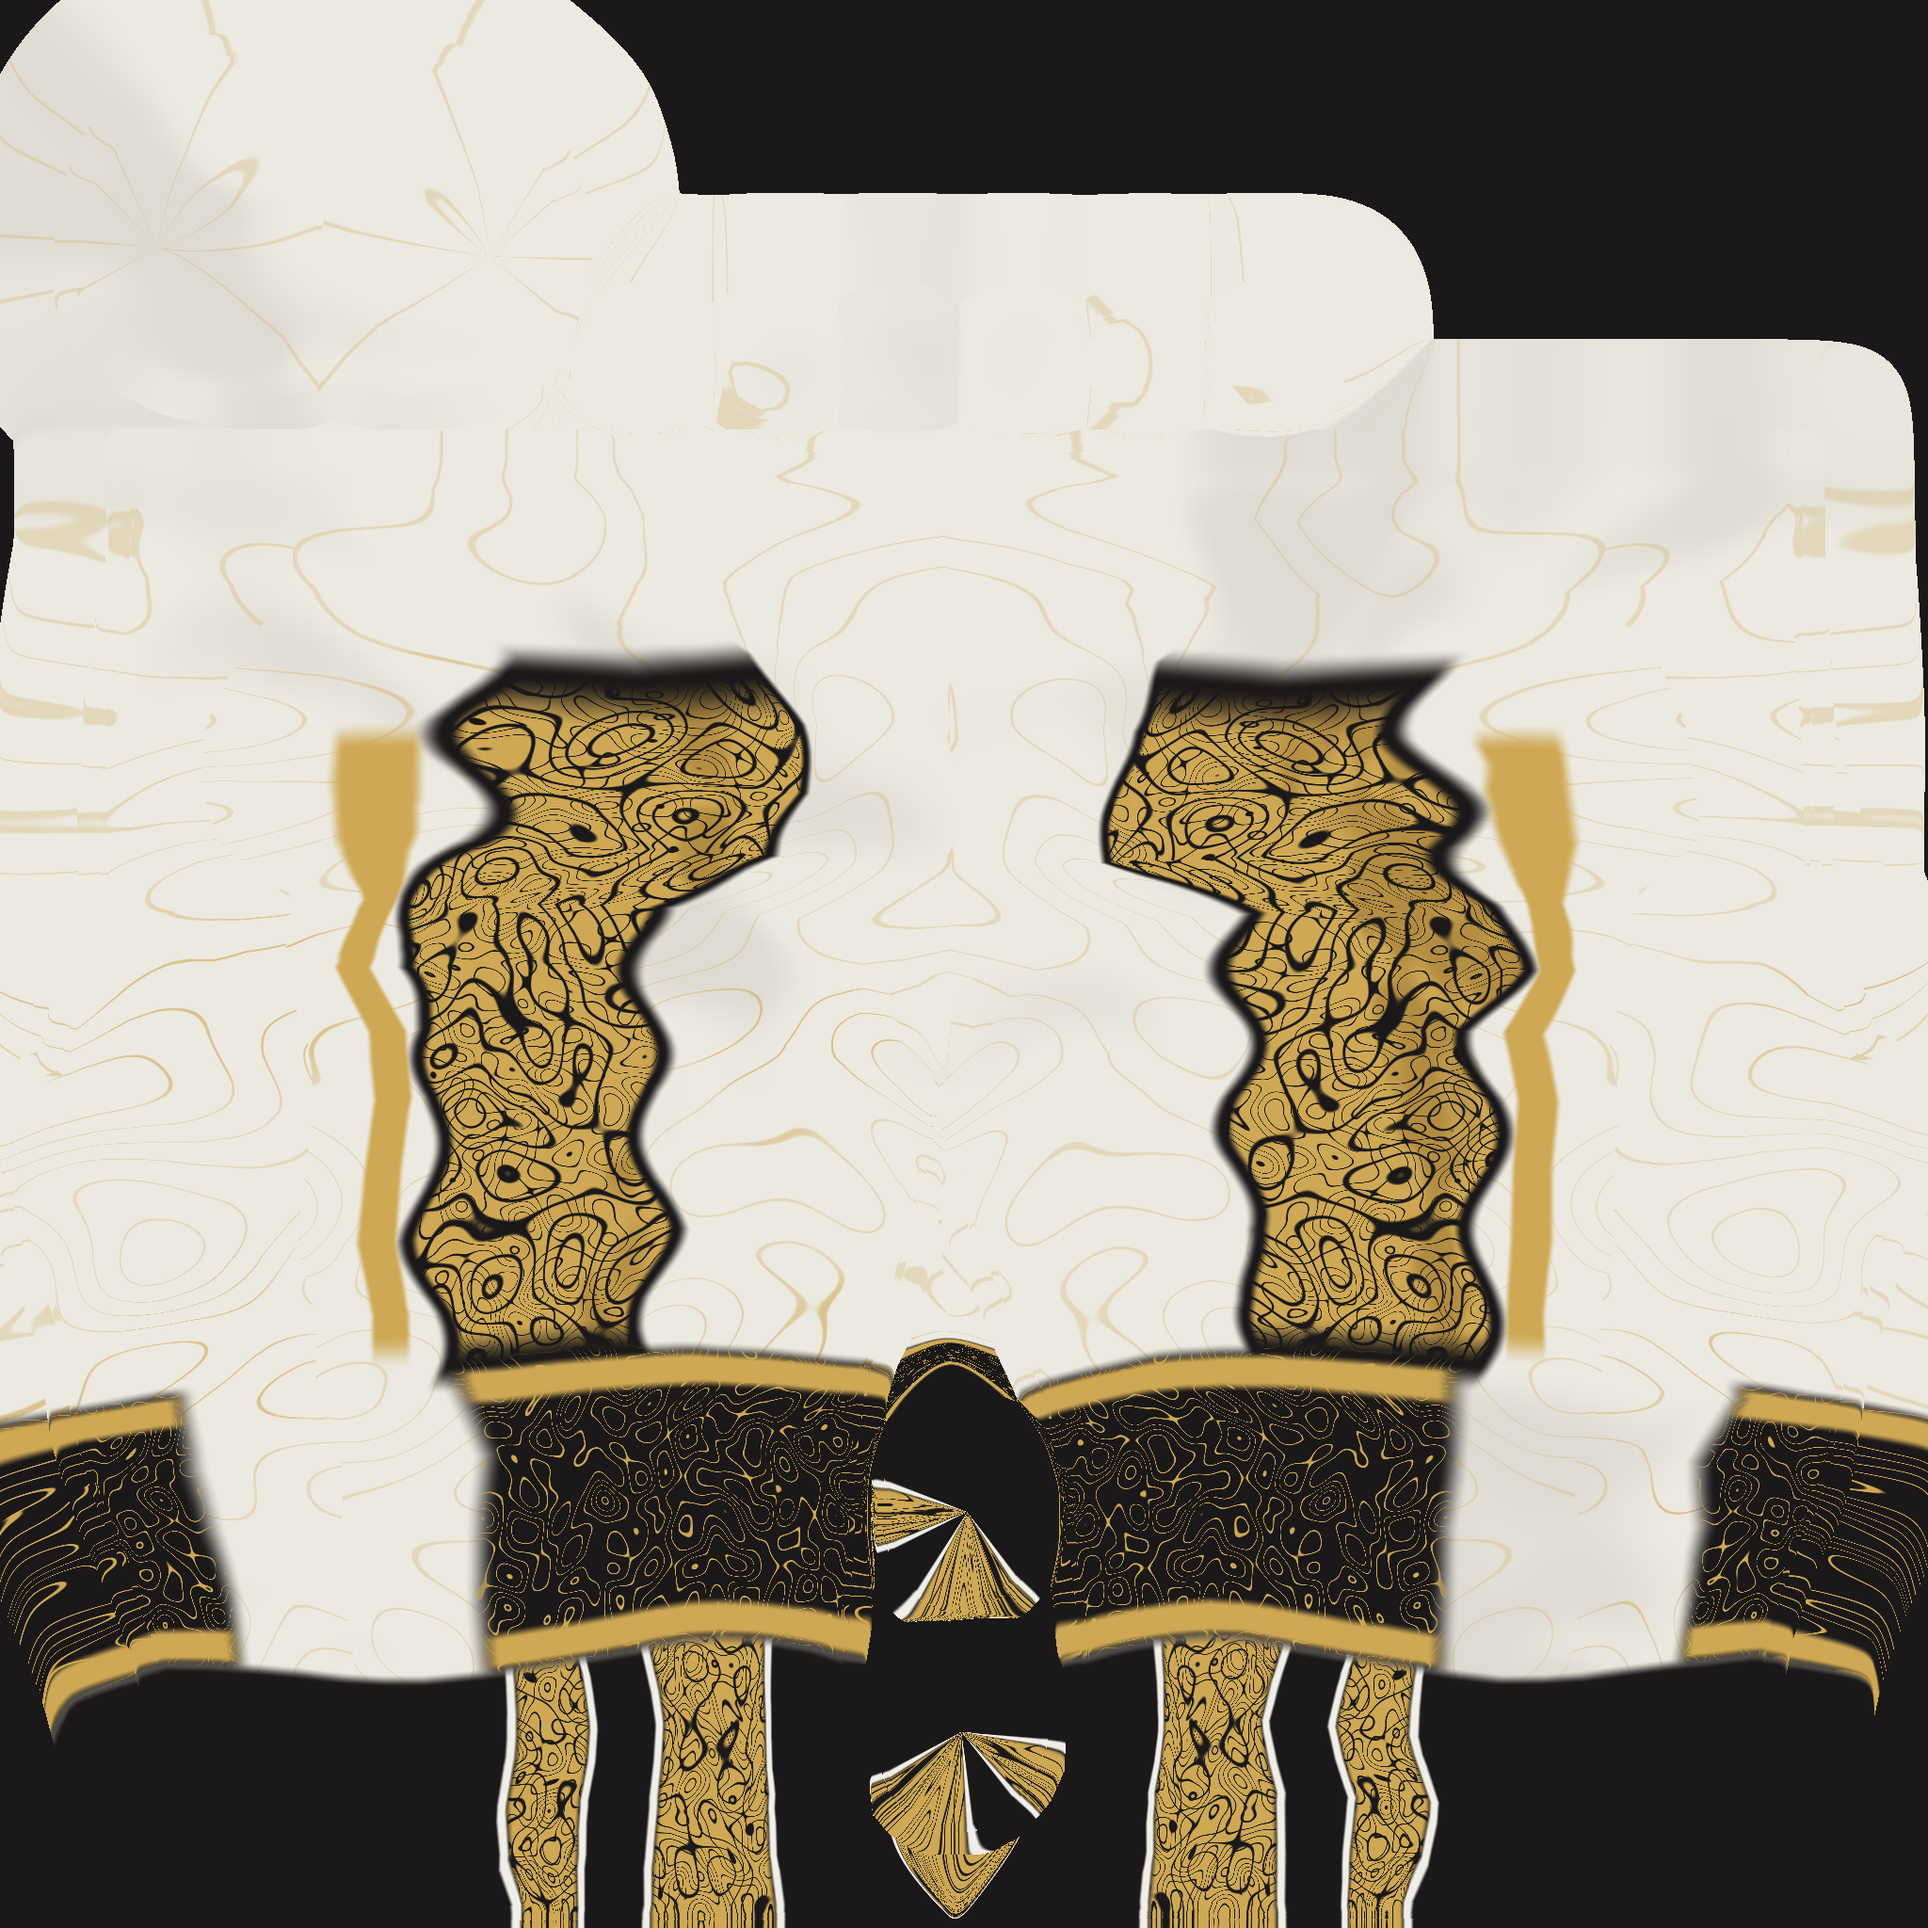
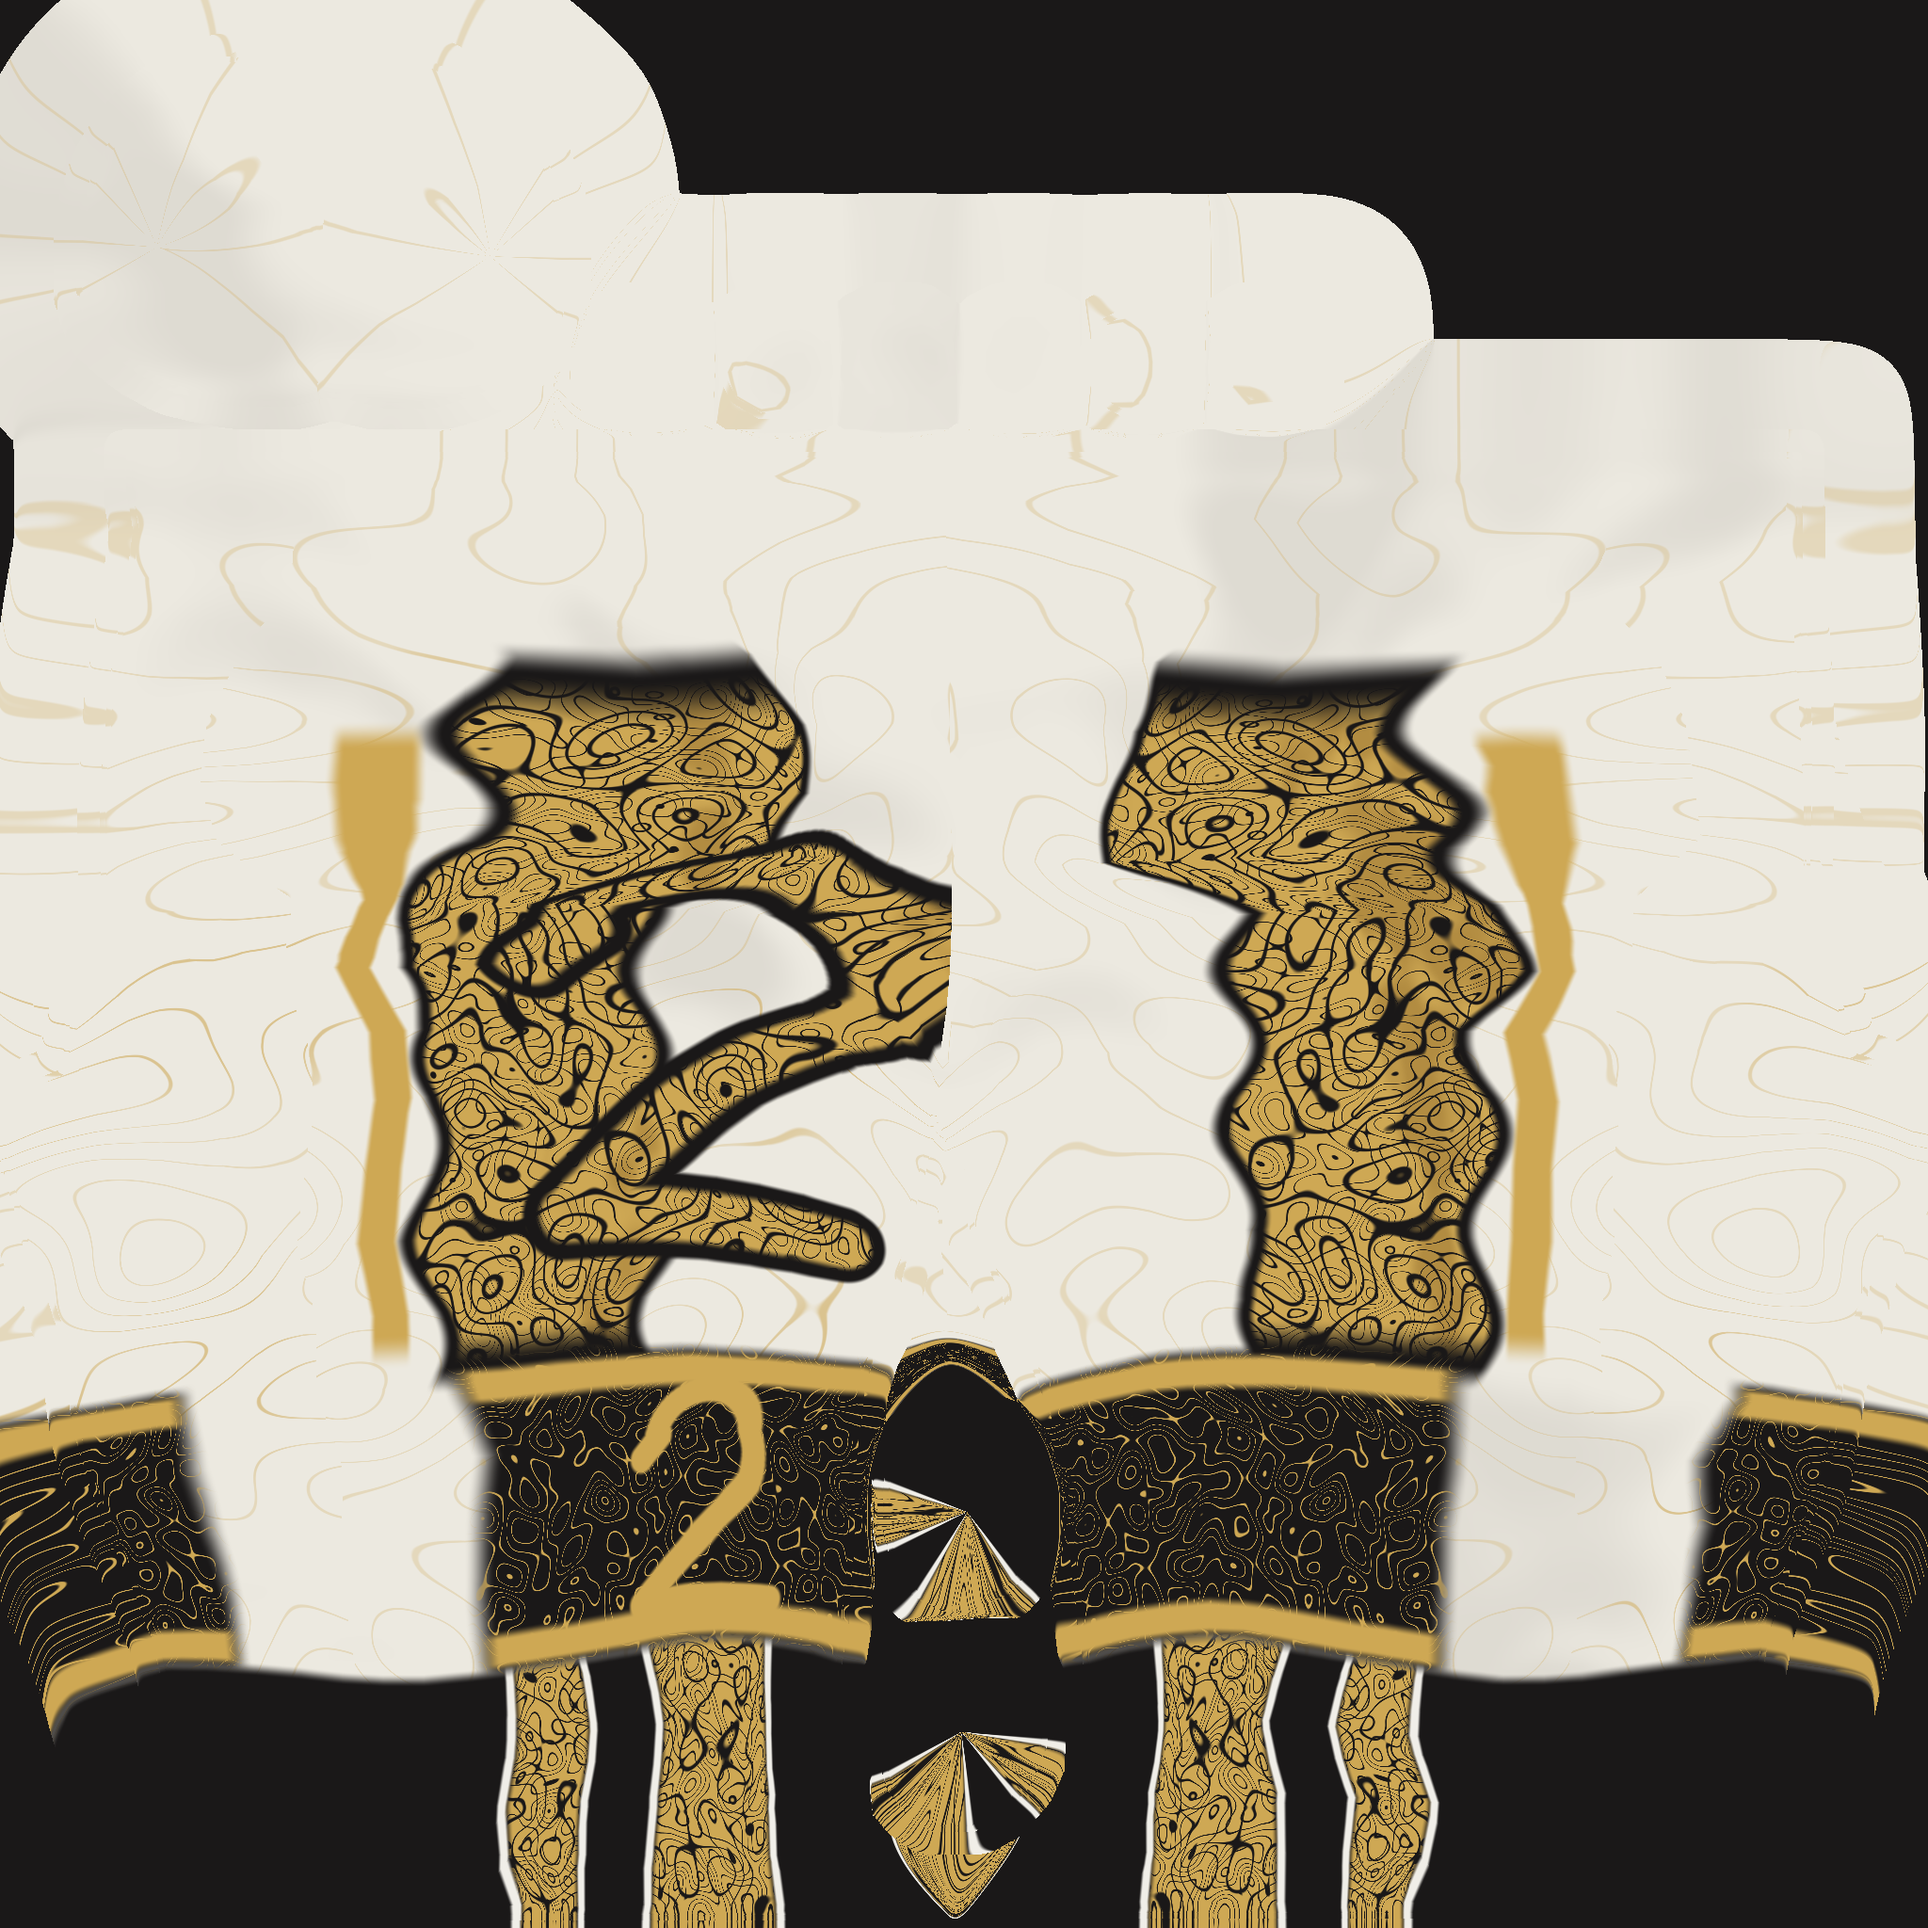
Kenny: the gold 2 on his right thigh and kneepad
Claude-Session: https://claude.ai/code/session_01RyRo3mh3ZakHSDewU65aFM

diff --git a/tools/assets/build_kenny_textures.py b/tools/assets/build_kenny_textures.py
@@ -797,6 +797,13 @@ def tights(point, pts):
     out = paint(out, pad, BLACK)
     out = paint(out, pad * filigree(a, hgt, 0.07, GEAR_SEED + 3, 0.07), GOLD)
     out = paint(out, np.clip(pad_rim, 0, 1) * pad, GOLD)
+    # The "2": on the thigh, black-edged gold with the panels' scrollwork;
+    # on the kneepad, plain gold on the black.
+    fill, rim = glyph(ang, hgt, side, GLYPH_THIGH, radius)
+    out = paint(out, rim * (1 - pad), BLACK)
+    out = paint(out, fill * (1 - pad), gold)
+    fill, _ = glyph(ang, hgt, side, GLYPH_KNEE, radius)
+    out = paint(out, fill * pad, GOLD)
     # The boot tops on the shin: black, with the boots' gold panels.
     shin = smoothstep(BOOT_TOP + 0.004, BOOT_TOP - 0.004, hgt)
     out = paint(out, shin, BLACK)
@@ -811,6 +818,39 @@ def boot_piping(ang):
         d = np.abs(np.abs(ang - centre) - half - BOOT_PIPING)
         m = np.maximum(m, smoothstep(BOOT_PIPING, BOOT_PIPING * 0.4, d))
     return m
+
+
+## The sheet's big gold "2" scroll on his right leg: over the front of the
+## thigh (gold, black-edged, on the white) and on the kneepad (gold on black).
+## [centre angle (deg, + outward), centre height (m), height (m)].
+GLYPH_THIGH = (14.0, 0.80, 0.24)
+GLYPH_KNEE = (4.0, 0.525, 0.13)
+## In the glyph's own units (height 1, x right as seen from the front).
+GLYPH_ARC = ((0.0, 0.20), 0.27, 165.0, -35.0)
+GLYPH_LINES = (((0.22, 0.045), (-0.31, -0.47)), ((-0.31, -0.47), (0.34, -0.47)),
+               ((-0.235, 0.27), (-0.34, 0.17)))
+GLYPH_WIDTH = 0.075
+GLYPH_RIM = 0.035
+
+
+def glyph(ang, hgt, side, spec, radius):
+    """The "2" on his right leg: (fill, rim) masks, 0-1."""
+    centre, h0, size = spec
+    vx = np.radians(ang - centre) * radius * side / size
+    vy = (hgt - h0) / size
+    d = np.full(ang.shape, 9.0, np.float32)
+    (cx, cy), r, t0, t1 = GLYPH_ARC
+    for t in np.linspace(math.radians(t0), math.radians(t1), 40):
+        px, py = cx + r * math.cos(t), cy + r * math.sin(t)
+        d = np.minimum(d, np.hypot(vx - px, vy - py))
+    for (ax, ay), (bx, by) in GLYPH_LINES:
+        ex, ey = bx - ax, by - ay
+        t = np.clip(((vx - ax) * ex + (vy - ay) * ey) / (ex * ex + ey * ey), 0, 1)
+        d = np.minimum(d, np.hypot(vx - ax - t * ex, vy - ay - t * ey))
+    right = (side < 0).astype(np.float32)
+    fill = smoothstep(GLYPH_WIDTH, GLYPH_WIDTH * 0.7, d) * right
+    rim = smoothstep(GLYPH_WIDTH + GLYPH_RIM, GLYPH_WIDTH + GLYPH_RIM * 0.6, d) * right
+    return fill, rim
 
 
 def boot_panels(ang, a, hgt):

diff --git a/gauntlet/refs/kenny_lifelike_review.md b/gauntlet/refs/kenny_lifelike_review.md
@@ -11,7 +11,7 @@
 | Walk | Already his own: `KENNY_GAIT` (hip dip 0.044 against Cody's 0.032, shoulder twist 13 against 9, longer looks) | -- |
 | Ring arrival | Wide `entry_crane`, spotlit from the steps to his mark | -- |
 | Head shape | -- | Dense photo-fit (brow, chin, face width) |
-| Gear | Gold veins on the white, dense black scrollwork on the gold panels, boot panels wider and white-piped (`kenny_gear_pass7.jpg`) | The big "2" glyph on the front thigh and knee |
+| Gear | Gold veins on the white, dense black scrollwork on the gold panels, boot panels wider and white-piped (`kenny_gear_pass7.jpg`) | -- (the "2" added: `kenny_gear_pass8.jpg`) |
 | Poses | -- | His current routine: no write-up found and footage can't be watched here; needs the owner's description or a clip |
 
 

diff --git a/README.md b/README.md
@@ -11506,3 +11506,5 @@ The owner asked for Kenny to match his reference sheet, starting with height and
 - widens the boots' front panel (`BOOT_PANELS`), fills it with denser scrollwork, and edges every panel in the sheet's white piping (`boot_piping`).
 
 Sheet: `gauntlet/refs/characters/review/kenny_gear_pass7.jpg`. The rebuild is byte-identical.
+
+**His "2", the same day.** The sheet's big gold "2" scroll is now on his right thigh (gold with the panels' scrollwork, black-edged) and on the kneepad (`GLYPH_*`, `glyph`). It is drawn as a distance field over the leg's surface coordinates, so it reads the right way round from the front. Sheet: `kenny_gear_pass8.jpg`.
